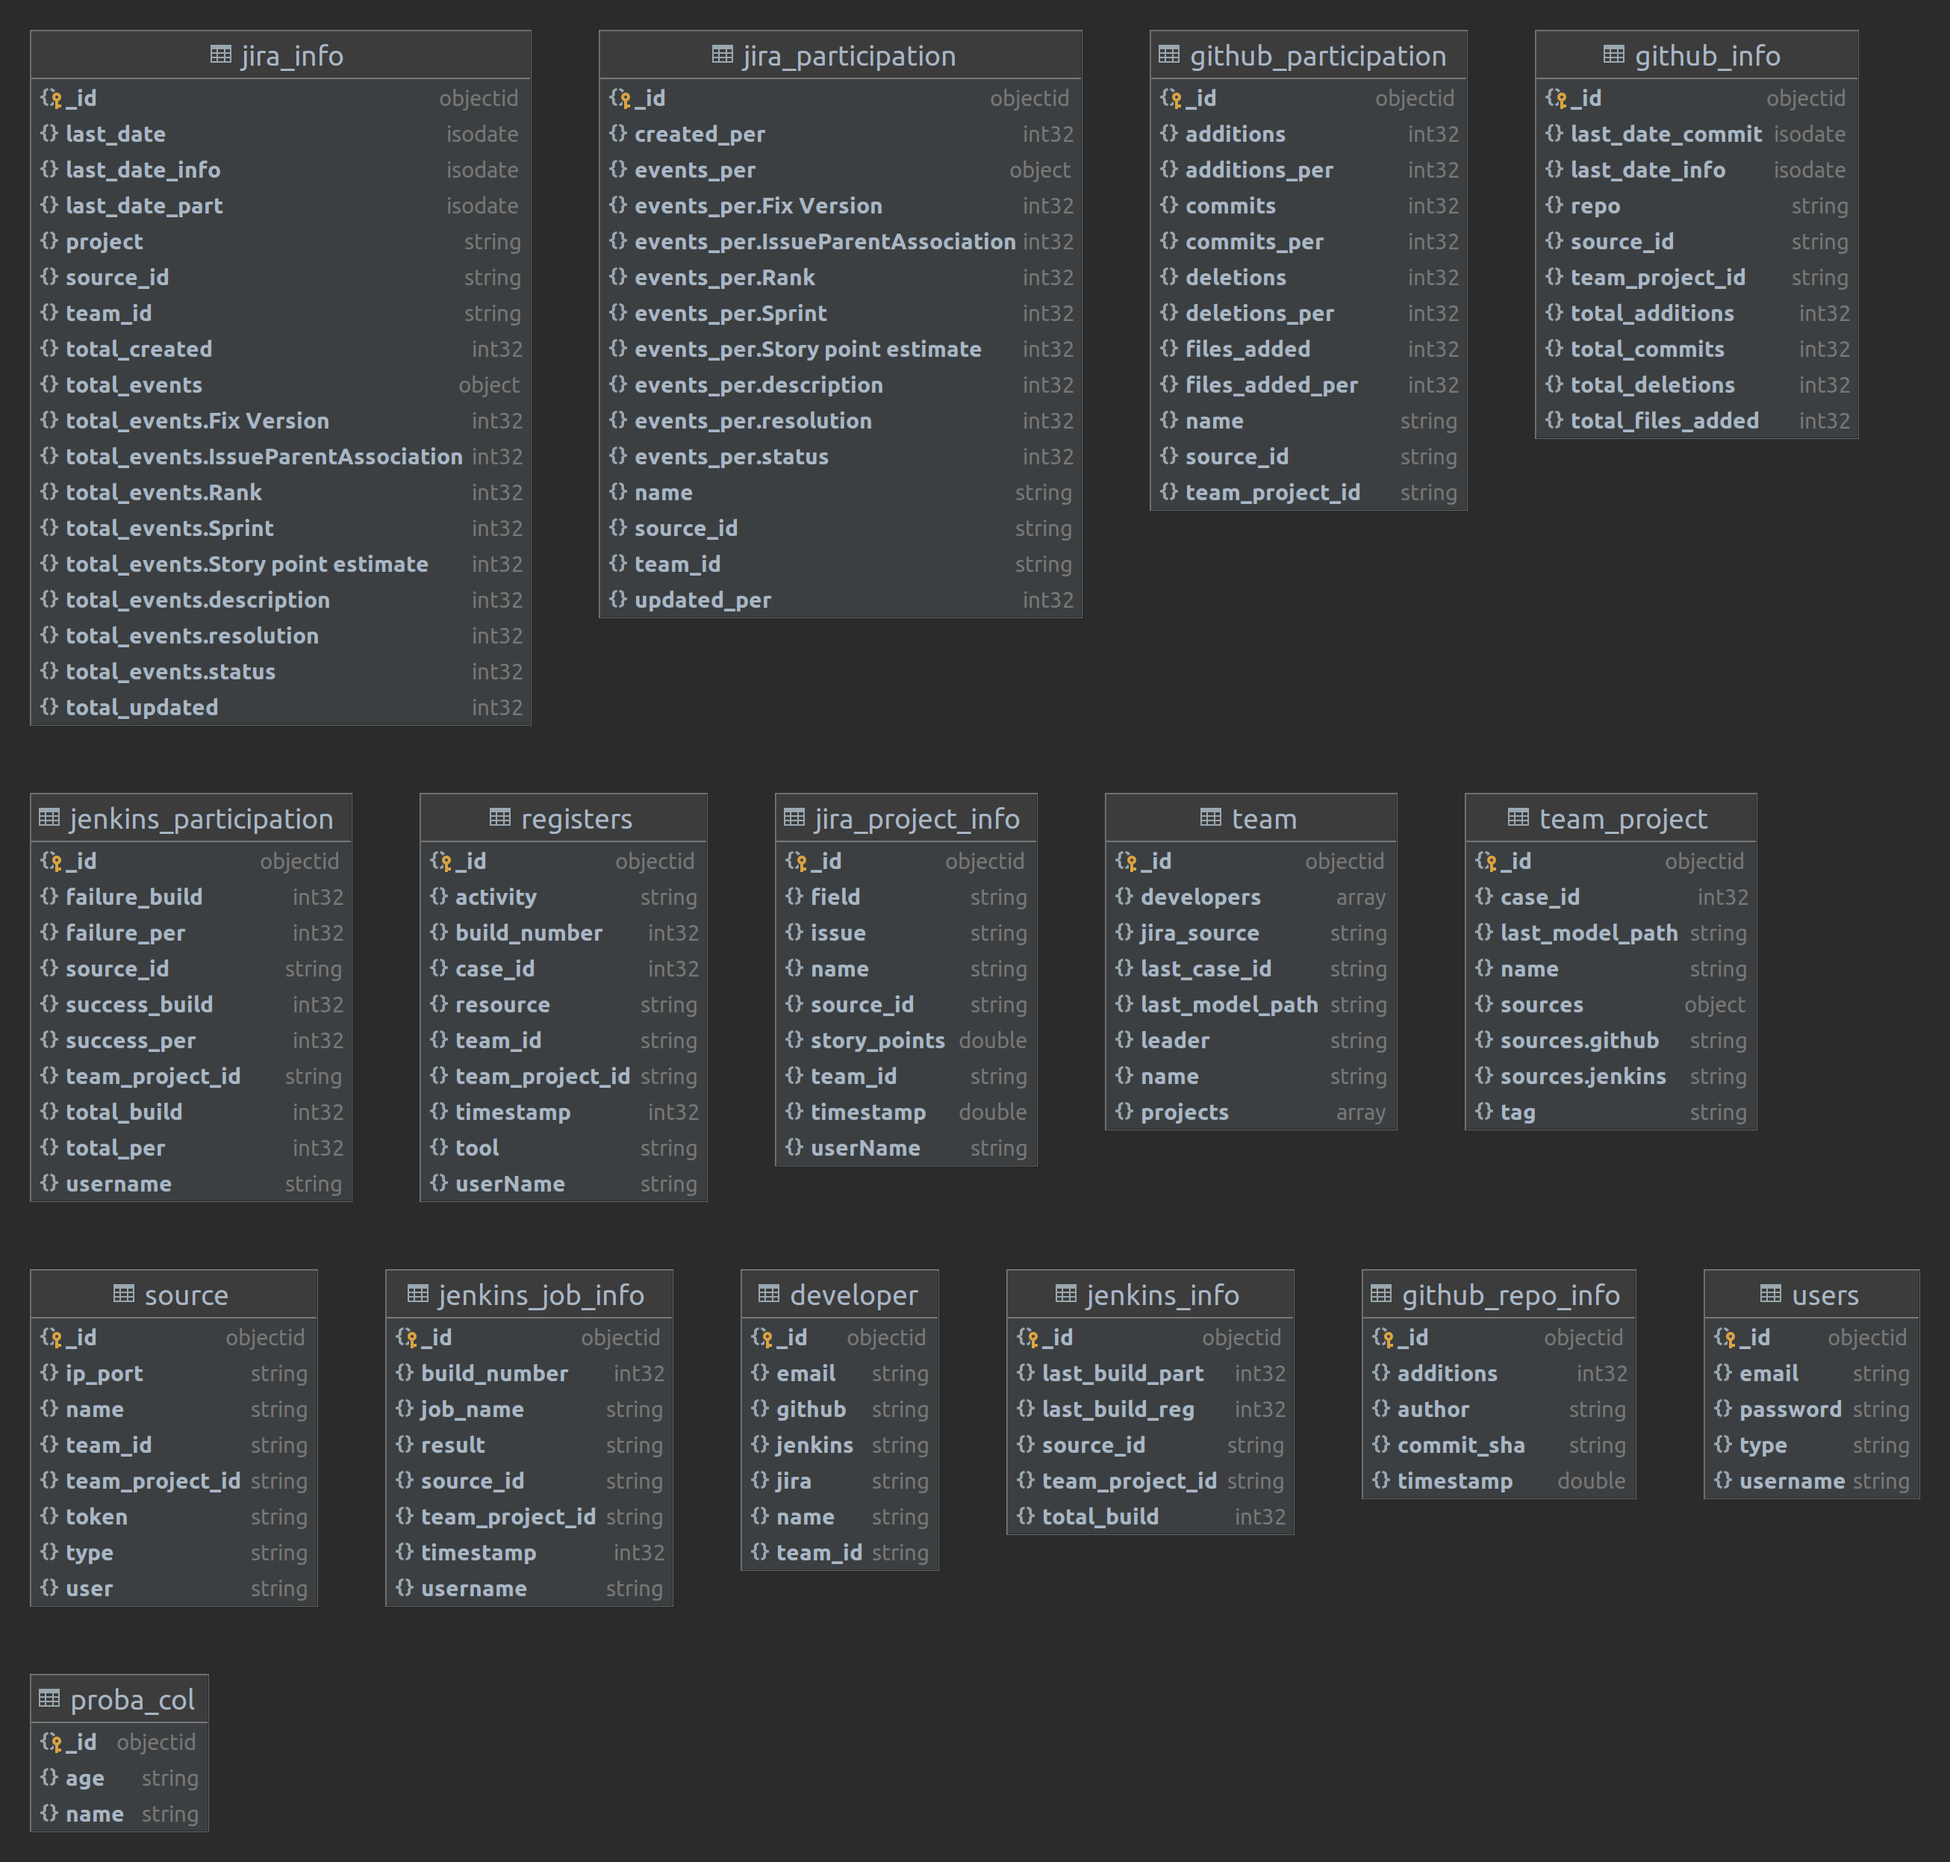
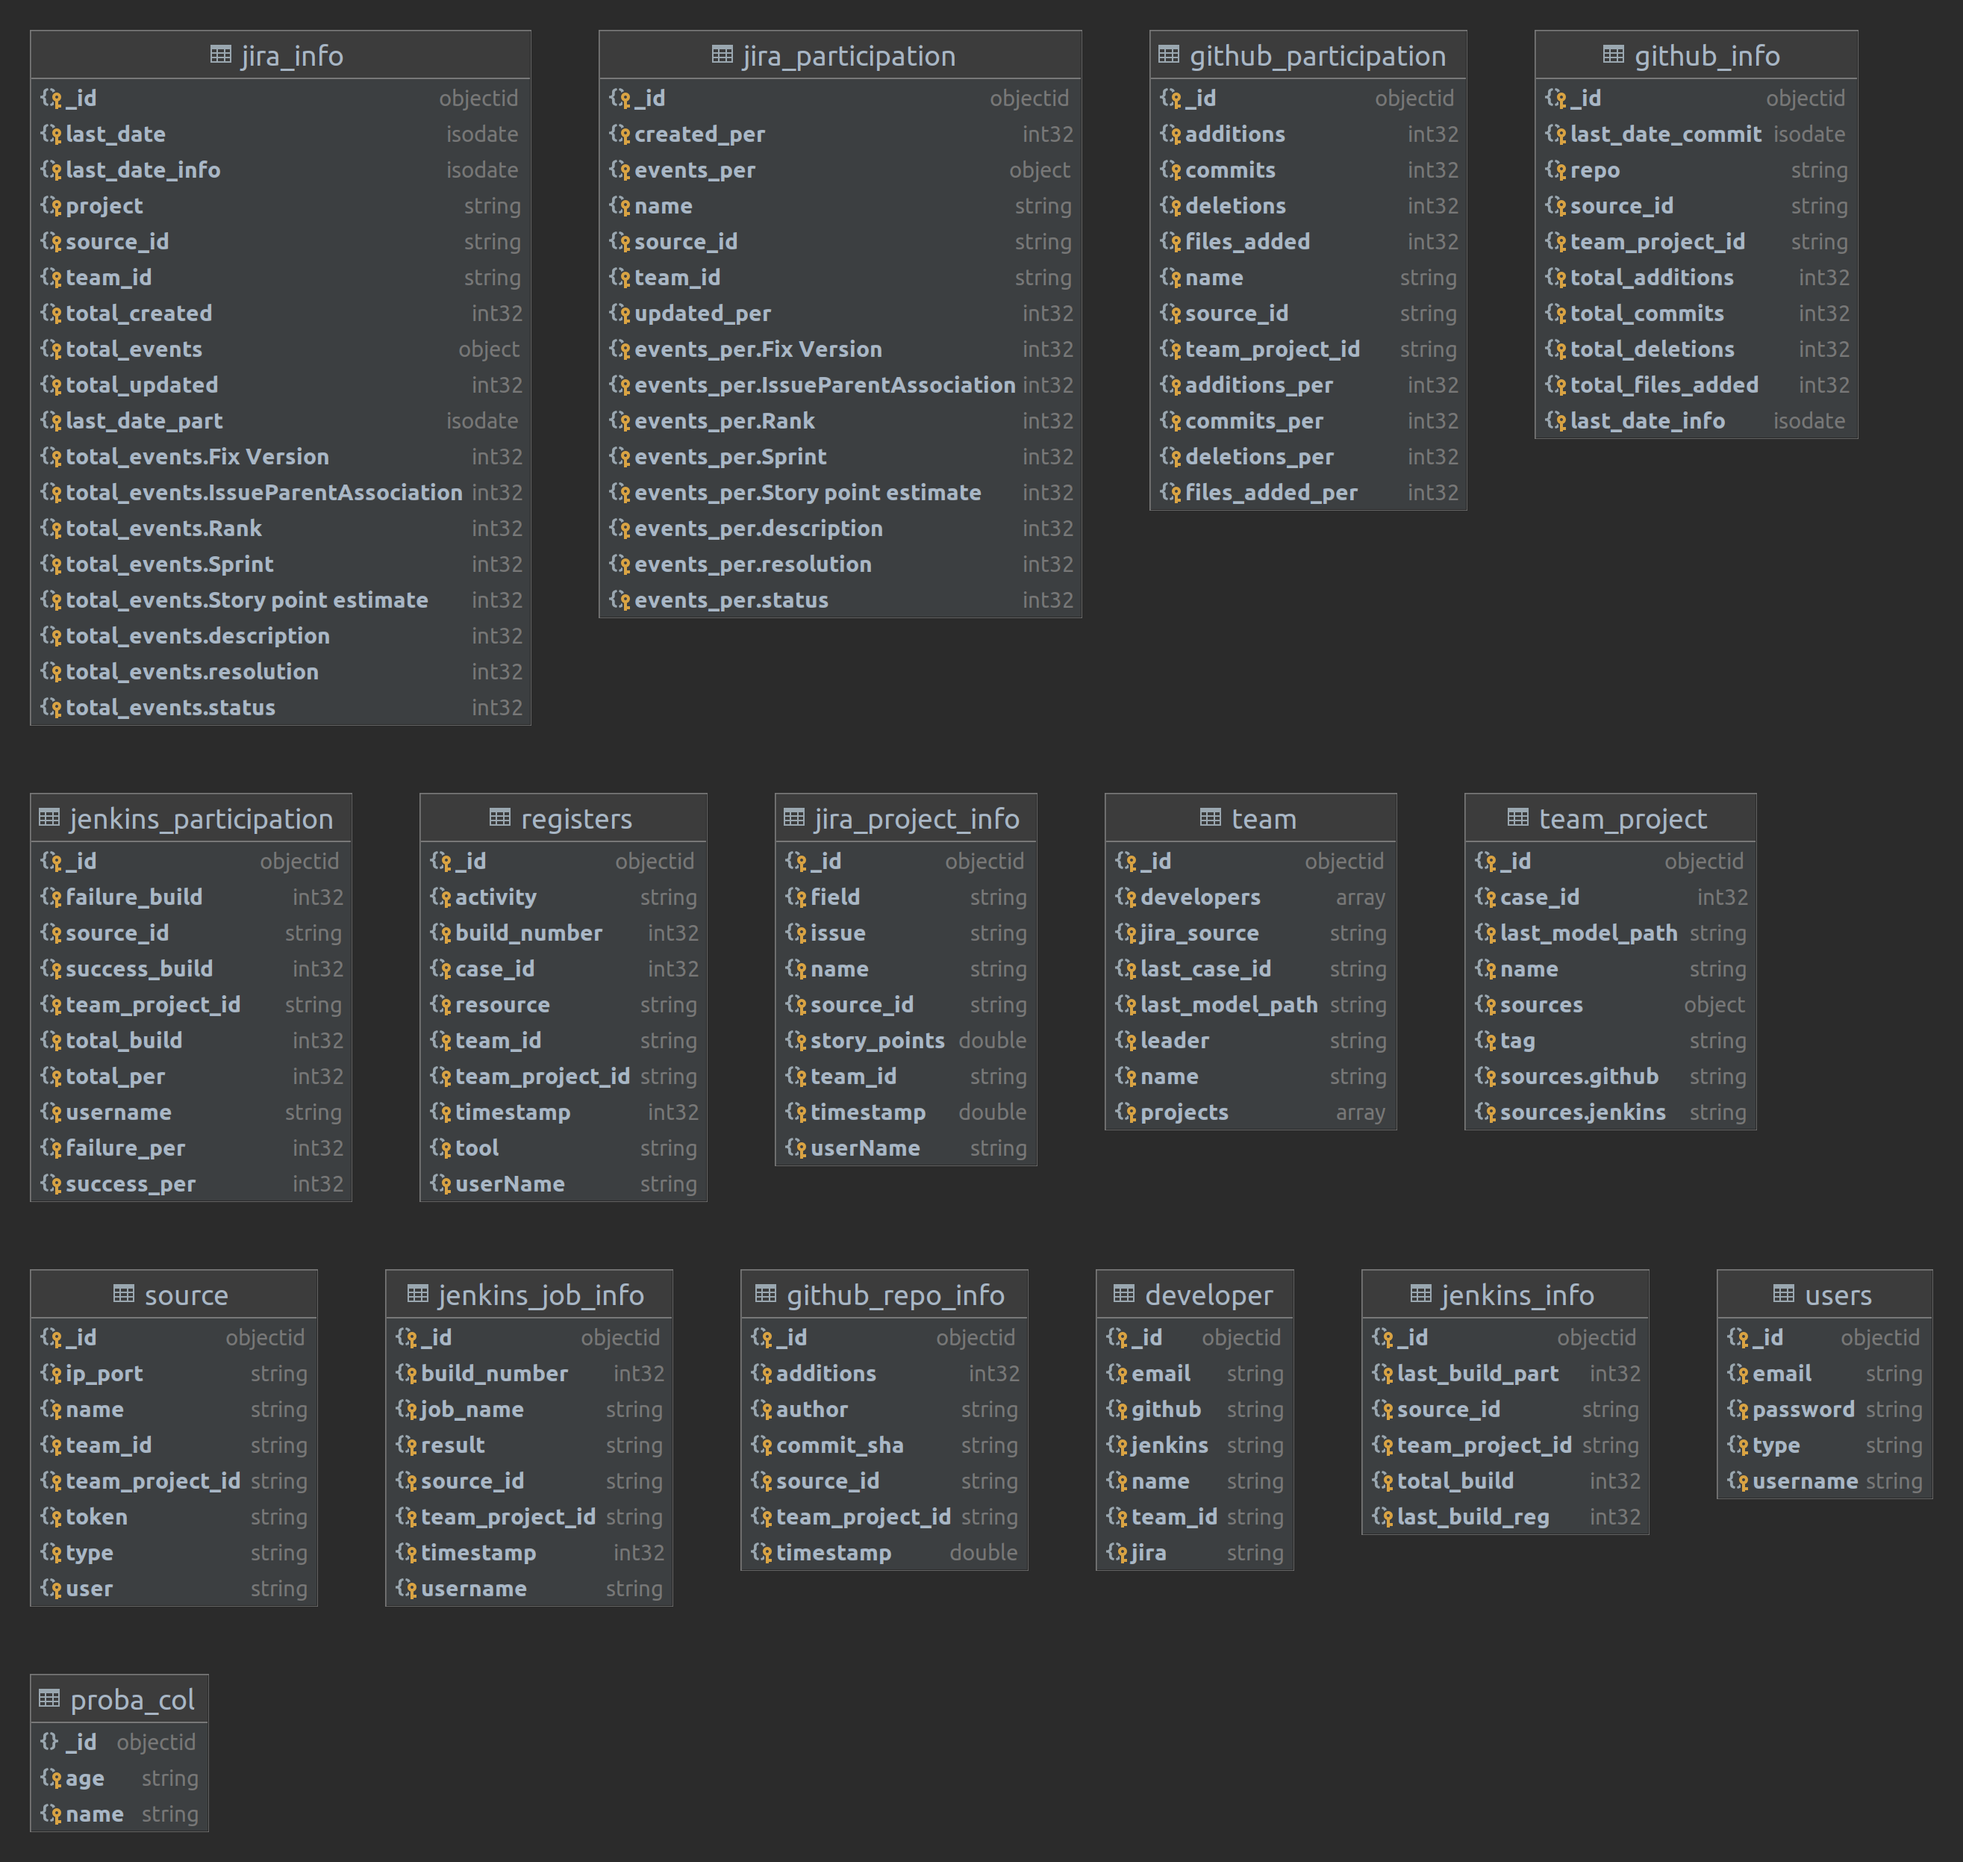
Con team_project_id en github_repo_info

diff --git a/src/apps/github/methods.py b/src/apps/github/methods.py
@@ -216,7 +216,7 @@ def get_repo_info(team_project_id, source_id):
                 # Se guarda la informacion para conocer la productividad
                 # en github_repo_info
                 time = datetime.strptime(str(commit.commit.author.date).split(".")[0], "%Y-%m-%d %H:%M:%S").timestamp()
-                insert_github_repo_info(commit.commit.sha, author, additions, time)
+                insert_github_repo_info(commit.commit.sha, author, additions, time, team_project_id, source_id)
 
     # Se calculan los totales (additions, deletions, commits) en el repositorio
     # primero se revisa si existe la instancia de github info y los atributos necesarios
@@ -297,3 +297,12 @@ def calculate_percentages(team_project_id, source_id):
 def get_participation(team_project_id, source_id):
     participation = get_participation_db(team_project_id, source_id)
     return participation
+
+
+
+#################################################
+############### PRODUCTIVITY ####################
+#################################################
+
+import pandas as pd
+

diff --git a/src/apps/github/db_methods.py b/src/apps/github/db_methods.py
@@ -134,10 +134,19 @@ def get_info_total_additions_exists(team_project_id, source_id):
     info_additions_exists = mongo.db.get_collection('github_info').find_one({'team_project_id': team_project_id, 'source_id': source_id, 'total_additions': {'$exists': True}})
     return info_additions_exists
 
-def insert_github_repo_info(commit_sha, author, additions, timestamp):
+def insert_github_repo_info(commit_sha, author, additions, timestamp, team_project_id, source_id):
     mongo.db.get_collection('github_repo_info').insert_one({
         'commit_sha': commit_sha, 
         'author': author, 
         'additions': additions, 
-        'timestamp': timestamp
+        'timestamp': timestamp,
+        'team_project_id': team_project_id,
+        'source_id': source_id
     })
+
+#################################################
+############### PRODUCTIVITY ####################
+#################################################
+
+def get_prod_docs(team_project_id):
+    return
